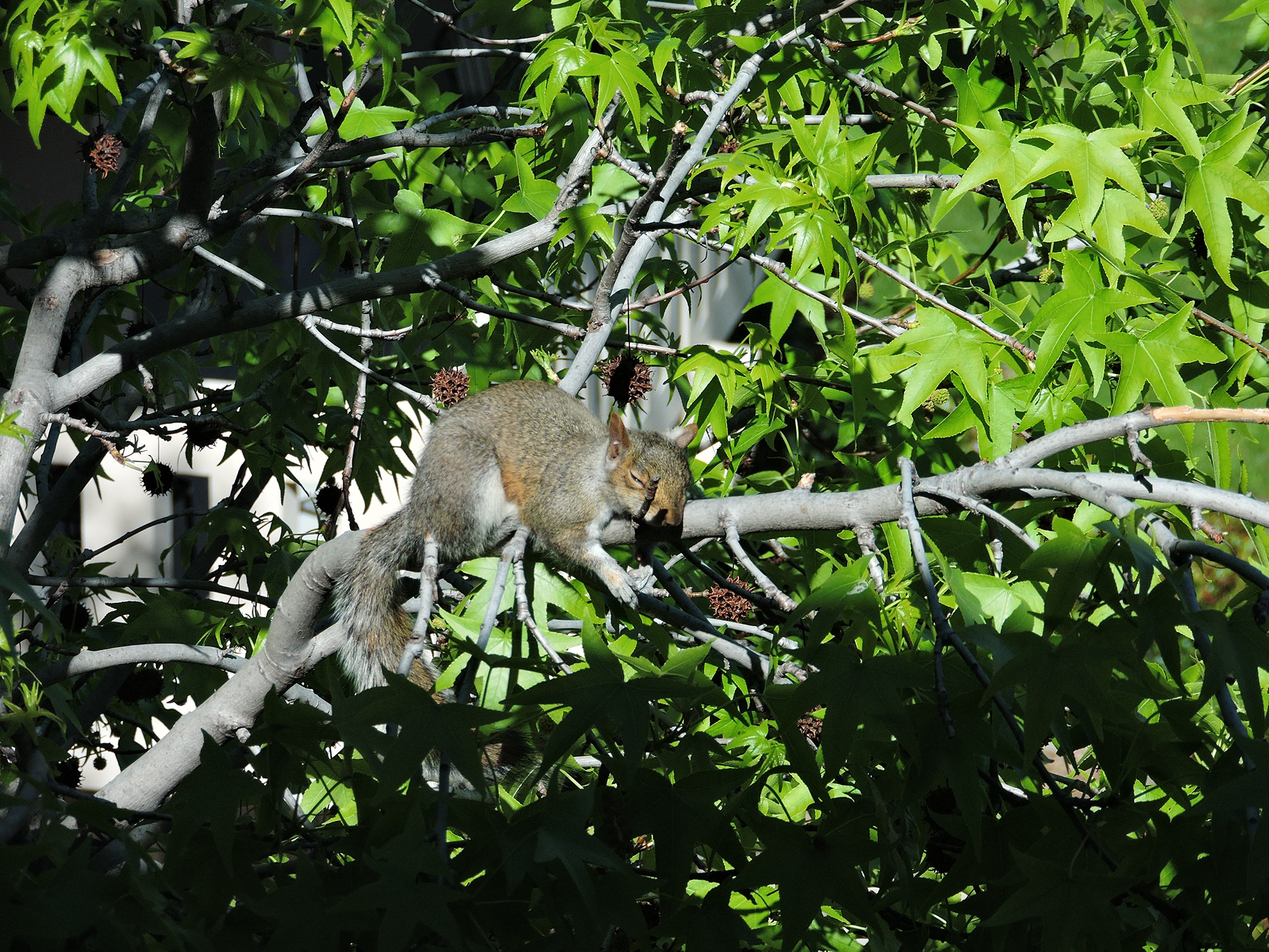
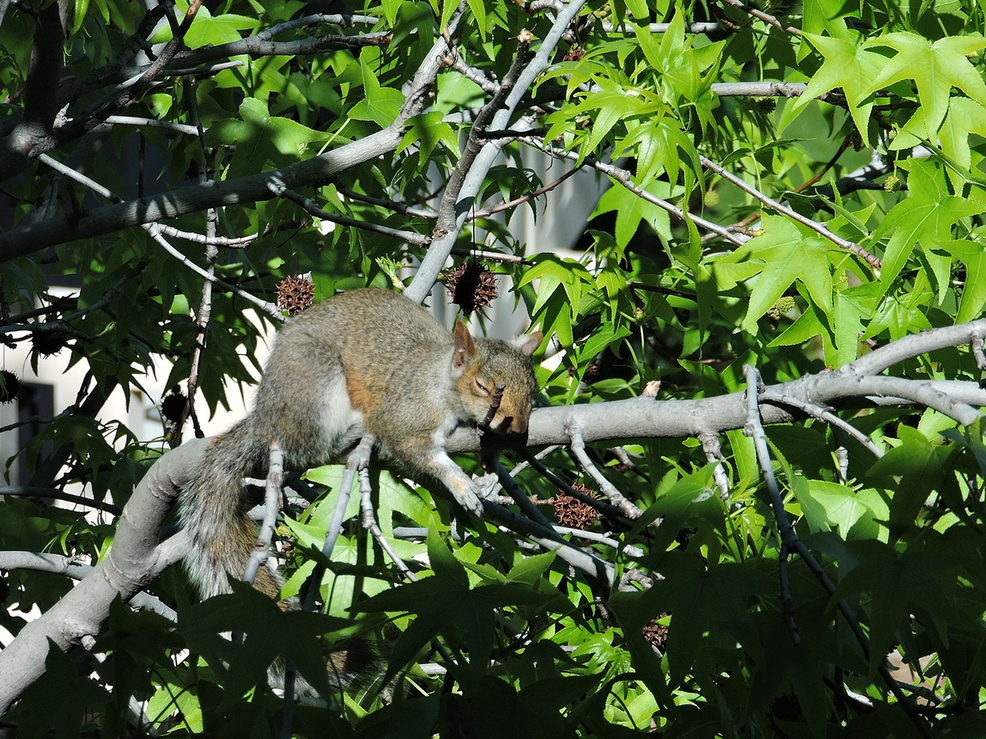
Started photography page

diff --git a/index.html b/index.html
@@ -297,8 +297,111 @@
       <div id="cs_portfolio" class="main_view hide">cs
 
       </div>
-      <div id="photo_portfolio" class="main_view hide">photo
-
+      <div id="photo_portfolio" class="main_view hide">
+        <!-- taking flight -->
+        <div class="photo_project_outer">
+          <div id="photo_img_14" class="photo_project_inner"></div>
+          <div class="photo_title">Takeoff</div>
+          <div class="photo_description">2018 - Egret taking off in
+            Coyote Hills Regional Park, California</div>
+        </div>
+        <!-- amsterdamse grachten -->
+        <div class="photo_project_outer">
+          <div id="photo_img_13" class="photo_project_inner"></div>
+          <div class="photo_title">Amsterdamse Grachten</div>
+          <div class="photo_description">2018 - Overlooking a canal
+            in Amsterdam</div>
+        </div>
+        <!-- parakeet -->
+        <div class="photo_project_outer">
+          <div id="photo_img_12" class="photo_project_inner"></div>
+          <div class="photo_title">Dutch Parakeet</div>
+          <div class="photo_description">2018 - The invasive
+            ring-rosed parakeets that have taken over Amsterdam</div>
+        </div>
+        <!-- rokin -->
+        <div class="photo_project_outer">
+          <div id="photo_img_11" class="photo_project_inner"></div>
+          <div class="photo_title">Rokin</div>
+          <div class="photo_description">2018 - Flowers blooming in
+            Rokin, Amsterdam</div>
+        </div>
+        <!-- amsterdam -->
+        <div class="photo_project_outer">
+          <div id="photo_img_10" class="photo_project_inner"></div>
+          <div class="photo_title">Amsterdam</div>
+          <div class="photo_description">2018 - The beautiful
+            architecture in Amsterdam</div>
+        </div>
+        <!-- russian lock -->
+        <div class="photo_project_outer">
+          <div id="photo_img_09" class="photo_project_inner"></div>
+          <div class="photo_title">From Russia with Love</div>
+          <div class="photo_description">2018 - A lock at the top of
+            the Euromast in Rotterdam</div>
+        </div>
+        <!-- vielsalm -->
+        <div class="photo_project_outer">
+          <div id="photo_img_08" class="photo_project_inner"></div>
+          <div class="photo_title">Vielsalm, Belgium</div>
+          <div class="photo_description">2018 - Flowers blooming
+            in the Ardennes Forest</div>
+        </div>
+        <!-- fluffing up -->
+        <div class="photo_project_outer">
+          <div id="photo_img_07" class="photo_project_inner"></div>
+          <div class="photo_title">Fluffing Up</div>
+          <div class="photo_description">2018 - A bird fluffing his
+            feathers to keep warm for the night</div>
+        </div>
+        <!-- florida sunset -->
+        <div class="photo_project_outer">
+          <div id="photo_img_06" class="photo_project_inner"></div>
+          <div class="photo_title">A Florida Sunset</div>
+          <div class="photo_description">2017 - A sunset in Boca
+            Raton, Florida</div>
+        </div>
+        <!-- marin -->
+        <div class="photo_project_outer">
+          <div id="photo_img_05" class="photo_project_inner"></div>
+          <div class="photo_title">Marin</div>
+          <div class="photo_description">2017 - Flowers in the
+            Marin Headlands</div>
+        </div>
+        <!-- sunflowers -->
+        <div class="photo_project_outer">
+          <div id="photo_img_04" class="photo_project_inner"></div>
+          <div class="photo_title">Sunflowers</div>
+          <div class="photo_description">2017 - A bouquet of
+            sunflowers</div>
+        </div>
+        <!-- nap time -->
+        <div class="photo_project_outer">
+          <div id="photo_img_03" class="photo_project_inner"></div>
+          <div class="photo_title">Nap Time</div>
+          <div class="photo_description">2017 - A lazy squirrel
+            taking a nap in a tree</div>
+        </div>
+        <!-- safari tree -->
+        <div class="photo_project_outer">
+          <div id="photo_img_02" class="photo_project_inner"></div>
+          <div class="photo_title">Safari Tree</div>
+          <div class="photo_description">2017 - Floridian
+            safari-tree sunset</div>
+        </div>
+        <!-- yosemite -->
+        <div class="photo_project_outer">
+          <div id="photo_img_01" class="photo_project_inner"></div>
+          <div class="photo_title">Yosemite</div>
+          <div class="photo_description">2017 - Waterfall
+            overlooking Yosemite Valley</div>
+        </div>
+        <div class="back_to_top">
+          <button type="button" name="top" onclick="topFunction()">
+            <div class="back_to_top_inner">Back to Top<p>↑</p>
+            </div>
+          </button>
+        </div>
       </div>
       <div id="about" class="main_view hide">bruv
 

diff --git a/index.css b/index.css
@@ -231,6 +231,7 @@ body
 {
   font-size: 0.9em;
   margin-top: 0.2em;
+  margin-bottom: 3em;
   color: var(--grey)
 }
 
@@ -425,12 +426,103 @@ body
   background-position: center;
 }
 
+#photo_img_14
+{
+  height: 80vh;
+  min-width: 320px;
+  min-height: 240px;
+  background-image: url("resources/images/photography/takingFlight.png");
+}
+#photo_img_13
+{
+  height: 80vh;
+  min-width: 320px;
+  min-height: 240px;
+  background-image: url("resources/images/photography/amsterdamseGrachten.png");
+}
+#photo_img_12
+{
+  height: 80vh;
+  min-width: 320px;
+  min-height: 240px;
+  background-image: url("resources/images/photography/parakeet.png");
+}
+#photo_img_11
+{
+  height: 80vh;
+  min-width: 320px;
+  min-height: 240px;
+  background-image: url("resources/images/photography/rokin.png");
+}
+#photo_img_10
+{
+  height: 80vh;
+  min-width: 320px;
+  min-height: 240px;
+  background-image: url("resources/images/photography/amsterdam.png");
+}
+#photo_img_09
+{
+  height: 80vh;
+  min-width: 240px;
+  min-height: 320px;
+  background-image: url("resources/images/photography/russianLock.png");
+}
+#photo_img_08
+{
+  height: 80vh;
+  min-width: 320px;
+  min-height: 240px;
+  background-image: url("resources/images/photography/vielsalm.png");
+}
+#photo_img_07
+{
+  height: 80vh;
+  min-width: 320px;
+  min-height: 240px;
+  background-image: url("resources/images/photography/fluffingUp.png");
+}
+#photo_img_06
+{
+  height: 80vh;
+  min-width: 320px;
+  min-height: 240px;
+  background-image: url("resources/images/photography/aFloridaSunset.png");
+}
+#photo_img_05
+{
+  height: 80vh;
+  min-width: 320px;
+  min-height: 240px;
+  background-image: url("resources/images/photography/marin.png");
+}
+#photo_img_04
+{
+  height: 80vh;
+  min-width: 320px;
+  min-height: 240px;
+  background-image: url("resources/images/photography/sunflowers.png");
+}
+#photo_img_03
+{
+  height: 80vh;
+  min-width: 320px;
+  min-height: 240px;
+  background-image: url("resources/images/photography/napTime.png");
+}
+#photo_img_02
+{
+  height: 80vh;
+  min-width: 320px;
+  min-height: 240px;
+  background-image: url("resources/images/photography/safariTree.png");
+}
 #photo_img_01
 {
-  height: 60vh;
-  min-width: 300px;
-  min-height: 154.25px;
-  background-image: url("resources/images/photography/nobili.png");
+  height: 80vh;
+  min-width: 320px;
+  min-height: 240px;
+  background-image: url("resources/images/photography/yosemite.png");
 }
 
 .hide
